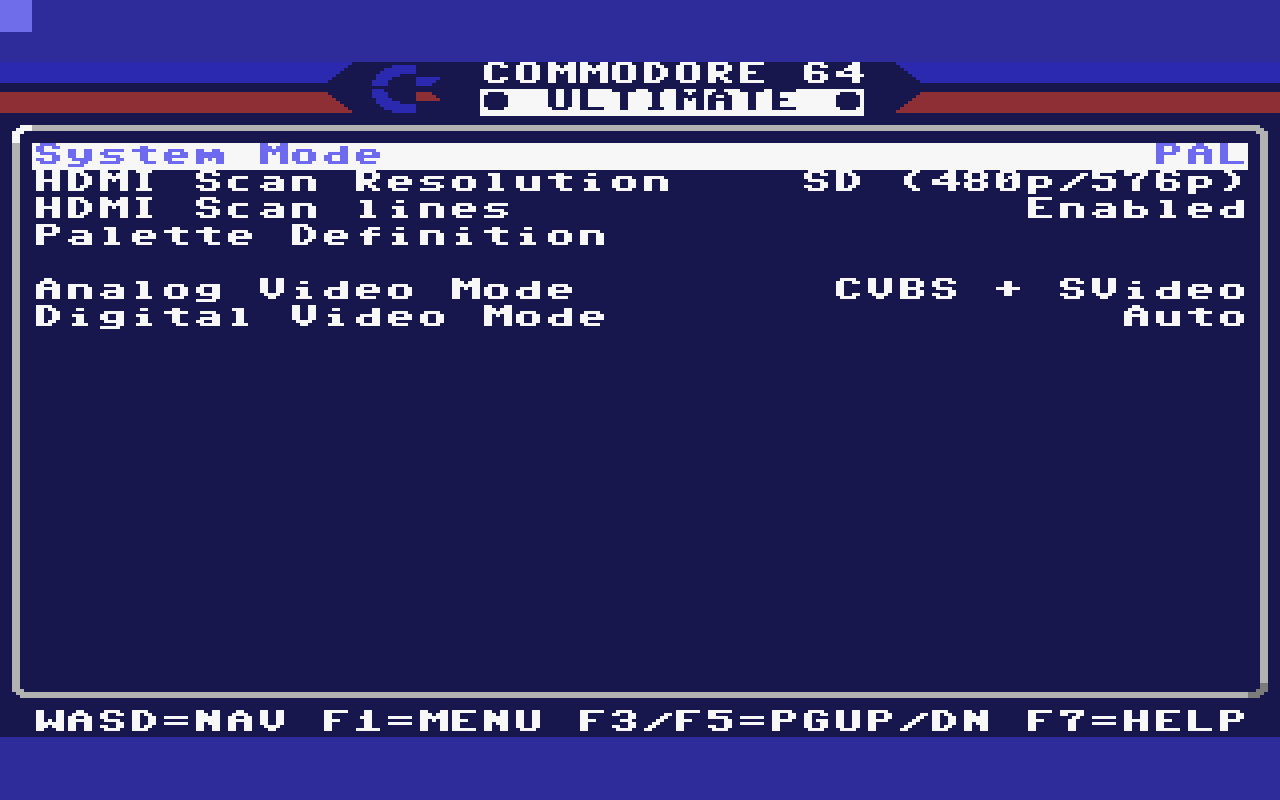
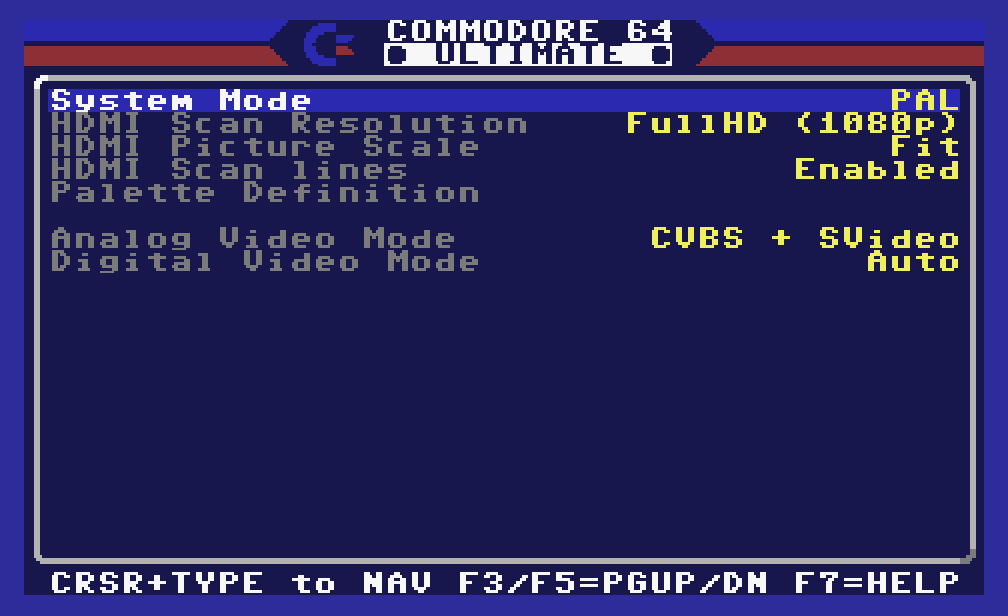
Manual: new Video Configuration picture with HDMI Picture Scale (ue2emu, release main-31e69921) [skip ci]
Export of TRX64 Ultimate baf70e7 (application 18af6de9).

Taken with ue2emu running the release .ue2 (--caps 25E40202 --trx-io on --icap;
--icap gives the U16 mode request, without it the app hides the item). Alex: the
board shows the same look. T68 and U16 say so; the other manual pictures are still
from b151154b in the older look.

Claude-Session: https://claude.ai/code/session_01Bxno8XpX9YZd2uXrcBitxm

diff --git a/docs/todo/T68.md b/docs/todo/T68.md
@@ -23,8 +23,10 @@ Moved from the TODO.md row on 2026-10-07, wording unchanged. Dated entries, newe
     `.cfw` and `.ue2` (bitstream 1 800 805, app 1 685 036, both byte-equal to the CI package, CRC-32/CHK/sum `E11A3B68`/xrot
     `476E6FCE`/AXSS `7DB401B7`); the app says "Software version: 0.3.0". Bitstream sha256 `149b4dfb...`, `ultimate.app`
     `fa70a66d...`; MultiCore was given that pin.
-  - The manual follows U16 (HDMI Scan Resolution, HDMI Picture Scale, the 50/60 Hz families); its Video Configuration picture is
-    still the one without HDMI Picture Scale. GitHub not touched.
+  - The manual follows U16 (HDMI Scan Resolution, HDMI Picture Scale, the 50/60 Hz families). Its Video Configuration picture is
+    new, from ue2emu running this release's `.ue2` (`--caps 25E40202 --trx-io on --icap`: `--icap` gives the mode request, without
+    it the app hides HDMI Picture Scale); Alex: the board shows the same look (grey names, yellow values). The other pictures
+    are still from release `b151154b`, in the older look (white names and values). GitHub not touched.
 
 - **2026-11-14, release `0.3.0` on Gitea (`main-8f1dc184`).** Alex: *"Im Grunde waren das nur bugfixes"*,
   then *"0.3.0 ist ok"*. App `fb3a7821` sets `APPL_VERSION_NUMBER` to `0.3.0`; host `fa3a561a` pins it and

diff --git a/docs/specs/U16-hdmi-modes.md b/docs/specs/U16-hdmi-modes.md
@@ -305,5 +305,5 @@ Scenario: Nothing that worked stops working
   agreed by both sides and Alex (contract v4, MultiCore 91f6f3cf6, the same bytes here).
 - **2026-11-16, on main and released (`main-31e69921`, release `0.3.0`, T68).** In main's first run (2322) `statebus` passed; the
   tier 2 was cancelled on Alex's word before `ring_core` finished (T31 history), so `ring_core` has not run on this tree. The user
-  manual describes the modes, the 50/60 Hz families and HDMI Picture Scale (chapters 4 and 10); its Video Configuration picture is
-  still the one without the new item.
+  manual describes the modes, the 50/60 Hz families and HDMI Picture Scale (chapters 4 and 10), with a new Video Configuration
+  picture from ue2emu (T68).

diff --git a/docs/manual/04-settings.md b/docs/manual/04-settings.md
@@ -37,7 +37,7 @@ when it is gone.
 | Digital Video Mode | Auto, HDMI, DVI | Auto | **No effect**: always HDMI |
 
 A settings file from a version before `main-31e69921` that holds SD keeps 576p (480p at 60 Hz) until you choose
-another mode. The picture above was taken before HDMI Picture Scale was added.
+another mode.
 
 ### Audio Mixer
 
